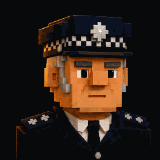
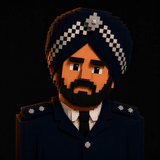
Inspector Singh joins the parade sheet
Hargreaves hands in the warrant card; Inspector Singh takes the first
polaroid on the picker — turban with the checked band and cap badge,
full beard, pips on both shoulders. All five animation frames supplied
(eyes open, half-lidded and closed; mouth parted and open), cut to the
house 160x160 palettized plates, so he blinks and mutters at the desk
like the rest of the relief. The warrant card reads INSPECTOR SINGH.

No prose names the guvnor's face, so the corpus needed nothing — the
picker and the card carry the whole change.

Changed region(s): [[0.0938, 0.0312, 0.9375, 0.9375], [0.5938, 0.9375, 0.6562, 1.0], [0.3438, 0.7188, 0.375, 0.75]]

diff --git a/public/index.html b/public/index.html
@@ -8,8 +8,8 @@
 </head>
 <body>
 <div id="app"></div>
-<script>window.DG_BUILD = "build a858eed";</script>
+<script>window.DG_BUILD = "build da672a7";</script>
 <script defer src="data-bc4ef88f.js"></script>
-<script defer src="app-396e880e.js"></script>
+<script defer src="app-61566109.js"></script>
 </body>
 </html>

diff --git a/src/ui.js b/src/ui.js
@@ -309,7 +309,7 @@
 
   // ---------- avatars (the guvnor's polaroid — constant) ----------
   var AVATARS = [
-    { id: '1', name: 'Insp. Hargreaves' },
+    { id: '1', name: 'Insp. Singh' },
     { id: '2', name: 'Insp. Grant' },
     { id: '3', name: 'Insp. March' },
     { id: '4', name: 'Insp. Blythe' },

diff --git a/public/app-61566109.js b/public/app-61566109.js
@@ -1710,7 +1710,7 @@
   }
 
   var AVATARS = [
-    { id: '1', name: 'Insp. Hargreaves' },
+    { id: '1', name: 'Insp. Singh' },
     { id: '2', name: 'Insp. Grant' },
     { id: '3', name: 'Insp. March' },
     { id: '4', name: 'Insp. Blythe' },
